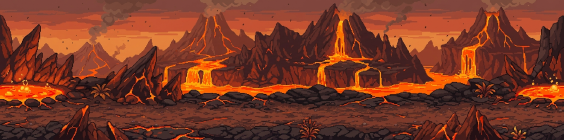
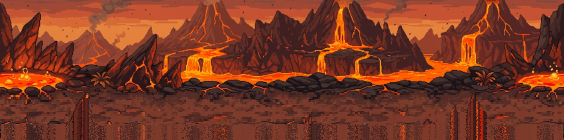
熔岩 bg_04 改為完成版(道路拉長)+ fg_04 + 特效參數 fx_04.json
Claude-Session: https://claude.ai/code/session_01VgWDma9wRVh94nUCbzKnsT

diff --git a/assets/battle/readme.md b/assets/battle/readme.md
@@ -7,4 +7,5 @@
 
 - `sky_mask_03.png`:沙漠的天空範圍(不透明處=天空)。飄動的雲只畫在這個範圍內,所以會躲在金字塔後面;雲不要低於地平線。
 - `clouds.json`:雲的形狀(4 朵,取自沙漠原圖)與各主題色盤(day 白雲 / dusk 粉雲)。森林用 day 色盤,沙漠用 dusk 色盤。
-- 暫存(只有背景,尚未切前景/調站位,之後逐張修):`bg_04`(熔岩,564×140)、`bg_05`(冰原,564×140)、`bg_06`(墓穴,564×140)、`bg_07`(王座廳,282×140)、`bg_08`(魔王城,564×140)、`bg_09`(城堡大廳,564×140)。
+- 暫存(只有背景,尚未切前景/調站位,之後逐張修):`bg_05`(冰原,564×140)、`bg_06`(墓穴,564×140)、`bg_07`(王座廳,282×140)、`bg_08`(魔王城,564×140)、`bg_09`(城堡大廳,564×140)。
+- `bg_04` + `fg_04`(熔岩,564×140)已完成:上方裁掉 12 格、道路拉長,前景含底部黑石、岩尖、植物。特效參數(動態煙、火泡、火星)在 `fx_04.json`;原圖的煙保留,特效疊在上面。
